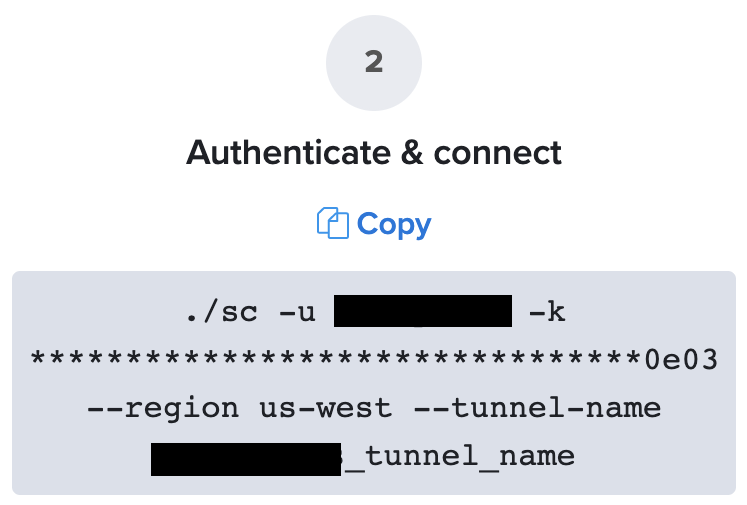
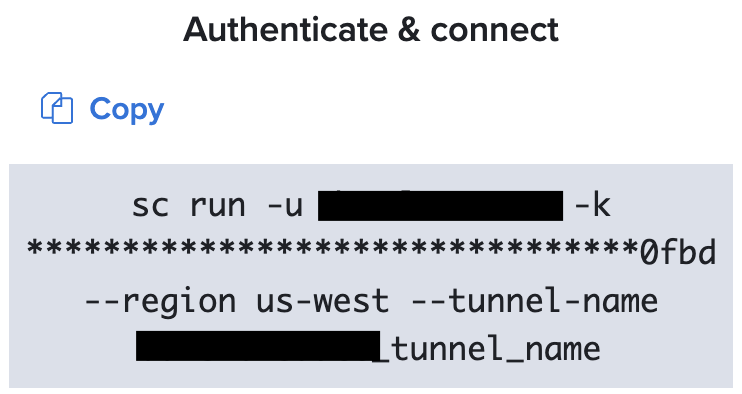
sauce-connect: updating a quickstart snippet to SC-5

diff --git a/docs/secure-connections/sauce-connect/quickstart.md b/docs/secure-connections/sauce-connect/quickstart.md
@@ -53,13 +53,11 @@ Sauce Connect is required to run a local test on an app or website located behin
 
    </TabItem>
    </Tabs>
-4. Log in to Sauce Labs.
-5. Go to the [**Tunnel Proxies**](https://app.saucelabs.com/tunnels) page.<br/><img src={useBaseUrl('img/sauce-connect/tunnelsPage.png')} alt="Sauce Connect Proxy Tunnels page" width="400"/>
-6. Under step 2, **Authenticate & connect**, copy the code snippet.<br/><img src={useBaseUrl('img/sauce-connect/configureAuth.png')} alt="Sauce Connect Proxy Tunnels page snippet" width="300"/>
-   <details><summary>What is this?</summary>
-   This snippet contains your authentication credentials (username and access key), selects a Sauce Labs Data Center, and applies a name to your tunnel. Optionally, you can rename your tunnel by replacing the value after the <code>--tunnel-name</code> flag.
-   </details>
-7. Paste the snippet into your terminal and run it. This will launch the tunnel.
+4. Run the command
+
+```bash
+sc -u <your-user> -k <your access key> --region <us-west|eu-central> --tunnel-name your_tunnel_name
+```
 
 ## Verify Connection
 
